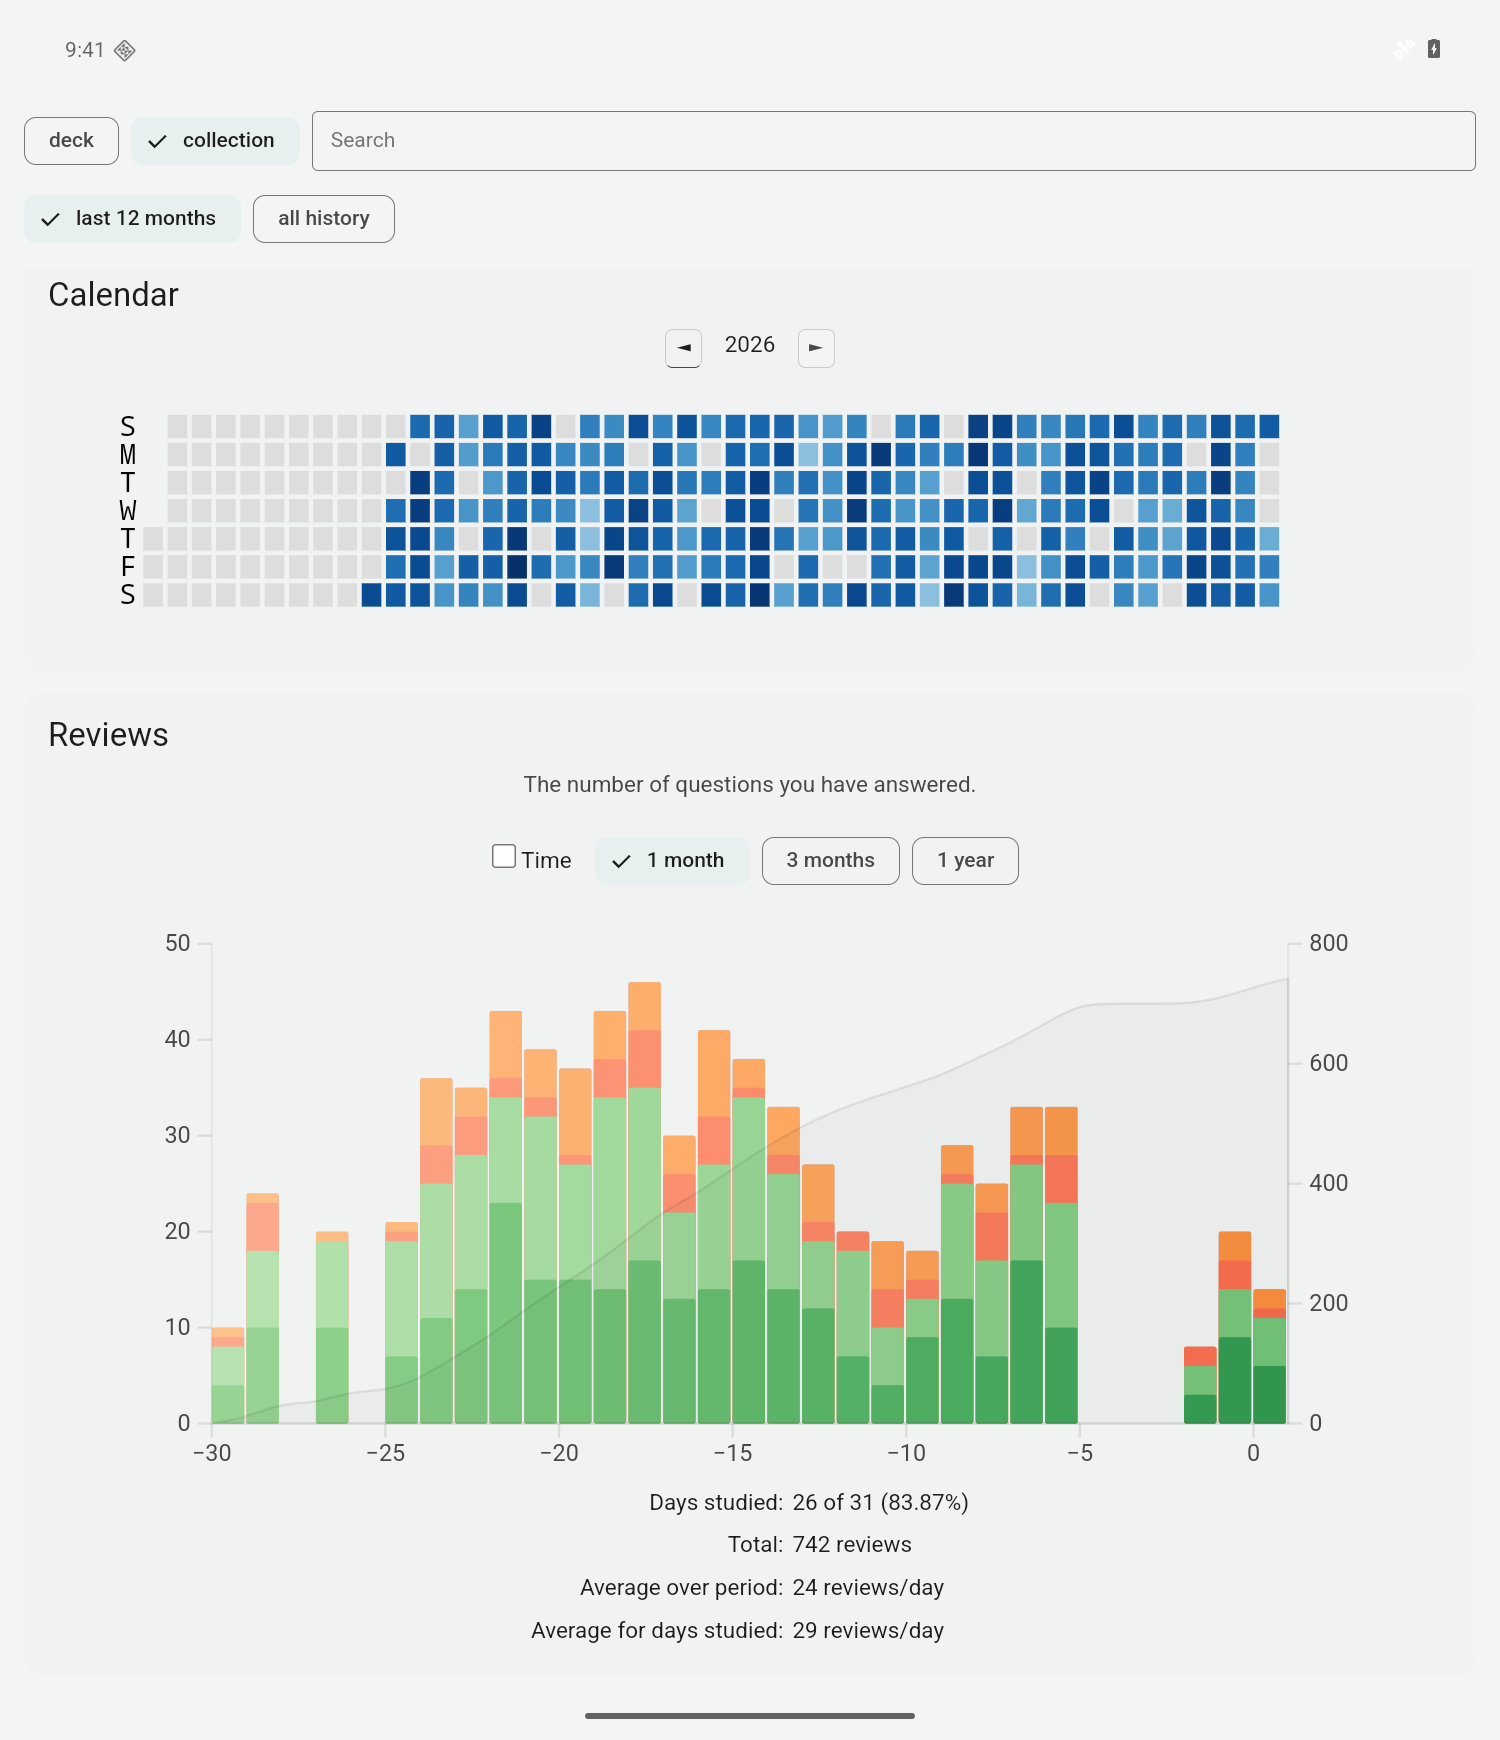
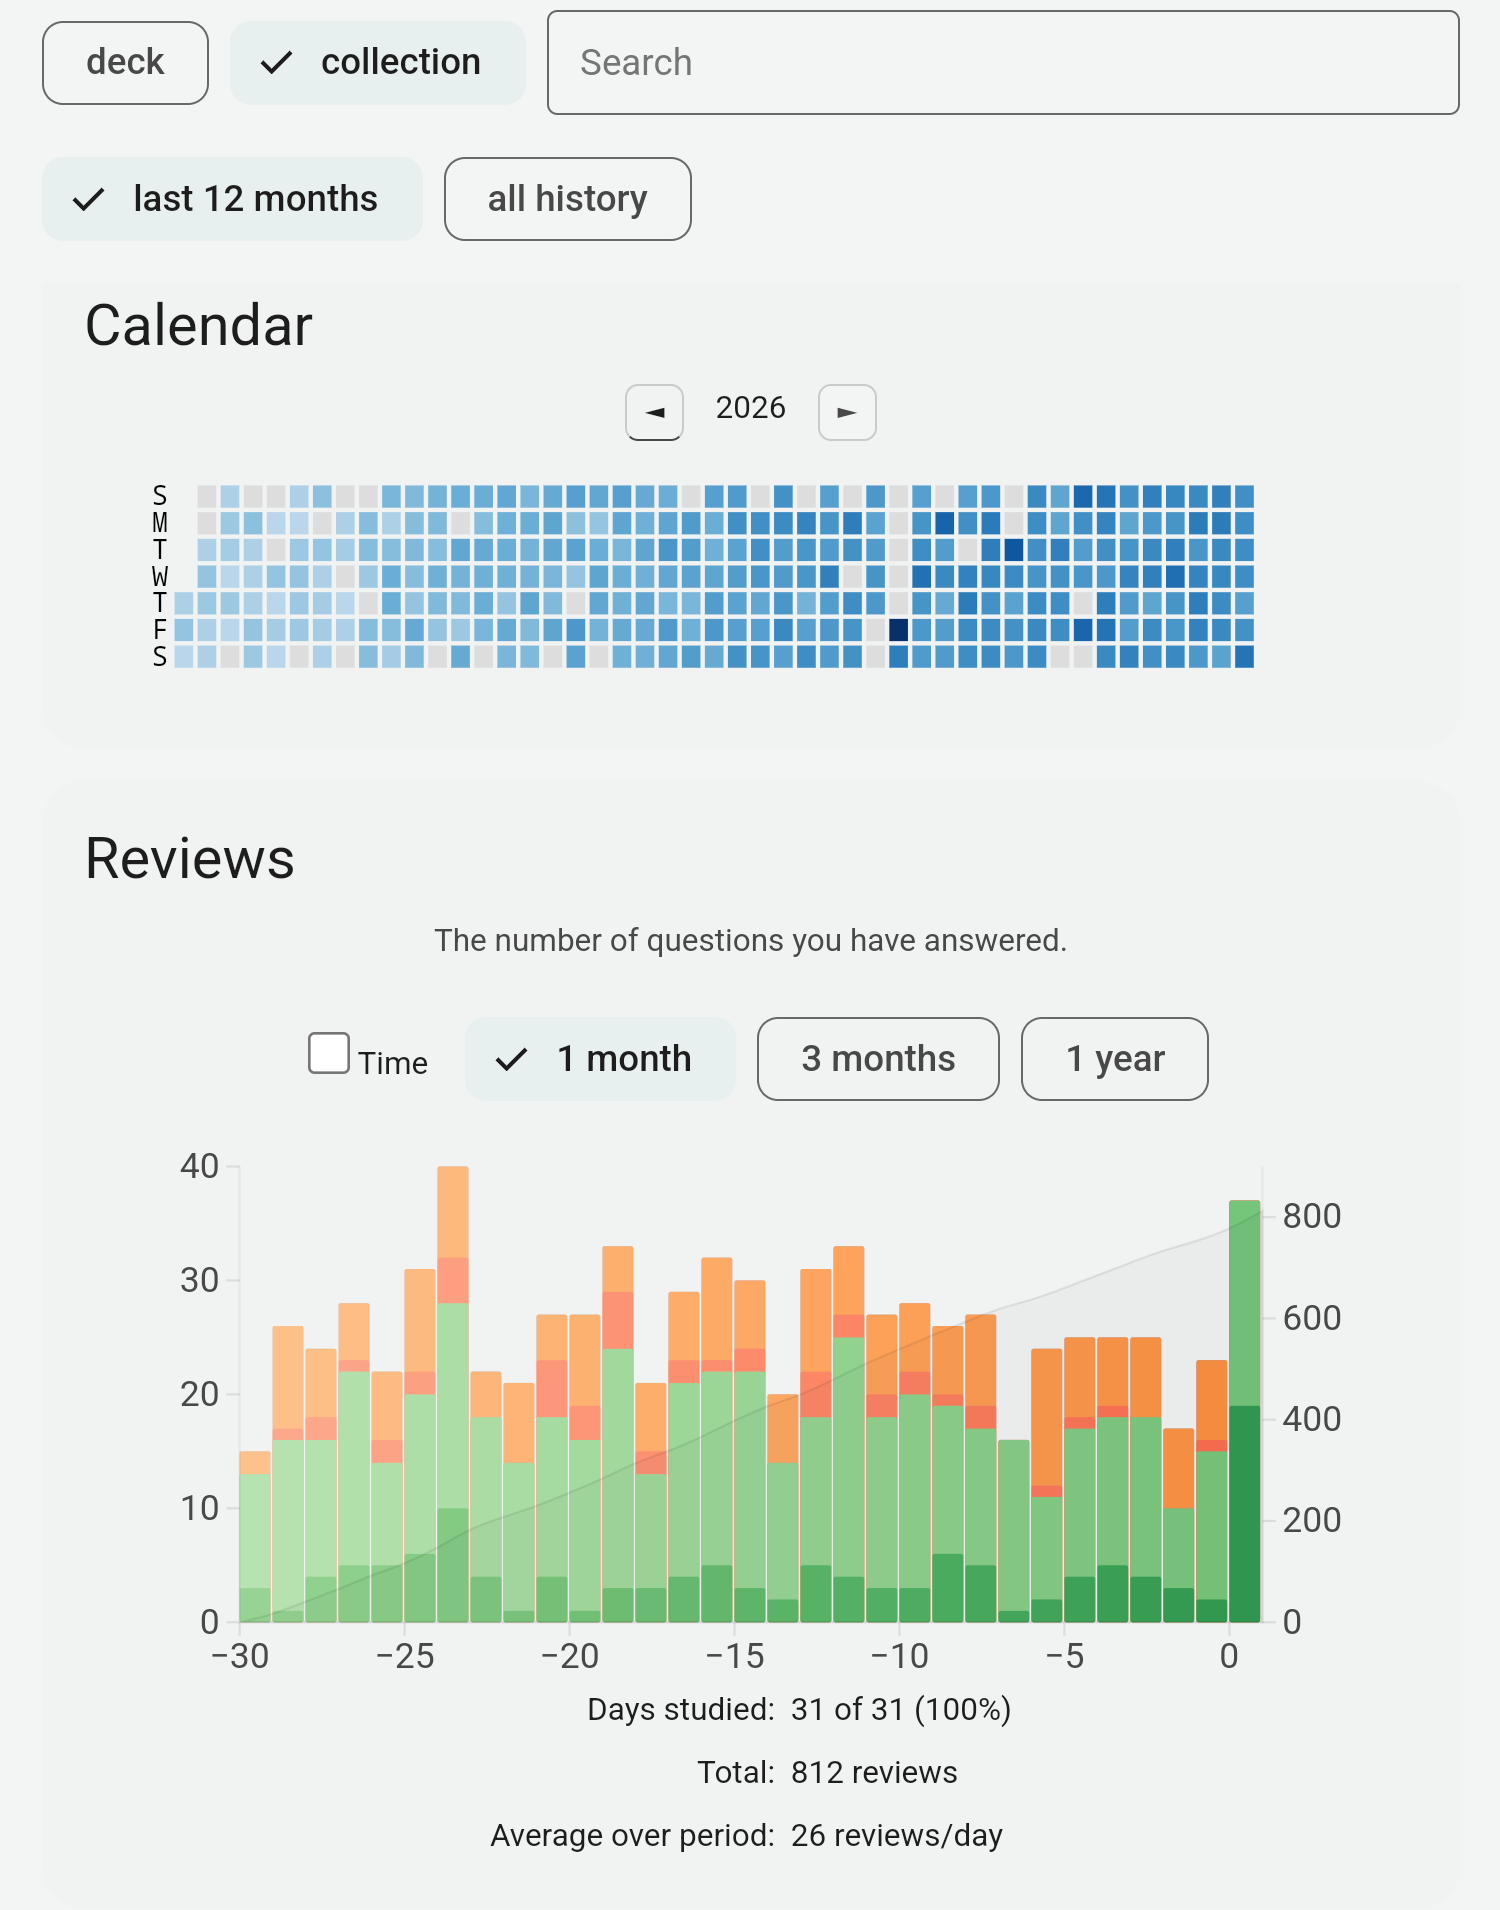
Show a richer sample collection in the English README screenshots
Replace the deck list, study answer, card browser and statistics
images with captures from a simulated year of study across Japanese,
Science, Spanish and World Capitals decks.

diff --git a/README.md b/README.md
@@ -16,7 +16,7 @@ Open Hayaki to see what’s due across your decks. Pick one deck or tap **Study 
 
 | Today’s decks | Reveal and rate | Session summary |
 | :---: | :---: | :---: |
-| [<img src="docs/images/en-decks.png" width="260" alt="Nine cards to study across Geography, Languages and Vocabulary">](docs/images/en-decks.png) | [<img src="docs/images/en-study-answer.png" width="260" alt="A geography answer with four ratings and their next review intervals">](docs/images/en-study-answer.png) | [<img src="docs/images/en-finished.png" width="260" alt="Geography finished with three reviews in 25 seconds">](docs/images/en-finished.png) |
+| [<img src="docs/images/en-decks.png" width="260" alt="72 cards left to study today across Japanese, Science and Spanish, with World Capitals done for today">](docs/images/en-decks.png) | [<img src="docs/images/en-study-answer.png" width="260" alt="A Japanese vocabulary answer with furigana, a pronunciation button, an example sentence and four ratings with their next review intervals">](docs/images/en-study-answer.png) | [<img src="docs/images/en-finished.png" width="260" alt="Geography finished with three reviews in 25 seconds">](docs/images/en-finished.png) |
 
 ## Study with your own cards
 
@@ -27,7 +27,7 @@ Open Hayaki to see what’s due across your decks. Pick one deck or tap **Study 
 
 ## Your review history
 
-Each square marks a day in the sample collection. The bars below show how 742 reviews were spread across the last 31 days.
+Each square marks a day in the sample collection. The bars below show how 812 reviews were spread across the last 31 days.
 
 <p align="center"><a href="docs/images/en-statistics.png"><img src="docs/images/en-statistics.png" width="530" alt="Statistics showing a year of study activity and a month of daily review counts"></a></p>
 
